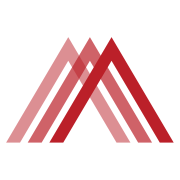
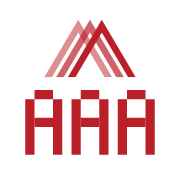
Make the browser tab and share preview read as AAA Shutter Repair. (#40)
Replace the triangle-only favicon with a 16px AAA lockup, and point Open Graph and Twitter images at the logo on white.

Changed region(s): [[0.0278, 0.1111, 0.9722, 0.8611]]

diff --git a/app/layout.tsx b/app/layout.tsx
@@ -9,6 +9,7 @@ import { businessJsonLd } from "@/lib/schema";
 import {
   GOOGLE_SITE_VERIFICATION,
   GOOGLE_SITE_VERIFICATION_INFO,
+  SHARE_IMAGE,
   SITE_NAME,
   SITE_URL,
 } from "@/lib/site";
@@ -30,6 +31,11 @@ const heading = Montserrat({
 
 export const metadata: Metadata = {
   metadataBase: new URL(SITE_URL),
+  applicationName: SITE_NAME,
+  appleWebApp: {
+    capable: false,
+    title: SITE_NAME,
+  },
   title: {
     default: `Plantation Shutter Repair in Los Angeles | ${SITE_NAME}`,
     template: `%s | ${SITE_NAME}`,
@@ -40,6 +46,11 @@ export const metadata: Metadata = {
     siteName: SITE_NAME,
     type: "website",
     locale: "en_US",
+    images: [SHARE_IMAGE],
+  },
+  twitter: {
+    card: "summary_large_image",
+    images: [SHARE_IMAGE.url],
   },
   verification: {
     google: [GOOGLE_SITE_VERIFICATION, GOOGLE_SITE_VERIFICATION_INFO],

diff --git a/components/CityPage.tsx b/components/CityPage.tsx
@@ -10,7 +10,7 @@ import { LANDING_TRUST_CHIPS, TrustChips } from "@/components/TrustChips";
 import { JsonLd } from "@/components/JsonLd";
 import type { CityContent } from "@/lib/cities";
 import { serviceJsonLd } from "@/lib/schema";
-import { absoluteUrl } from "@/lib/site";
+import { SHARE_IMAGE, absoluteUrl } from "@/lib/site";
 
 export function cityMetadata(city: CityContent): Metadata {
   return {
@@ -18,6 +18,7 @@ export function cityMetadata(city: CityContent): Metadata {
     description: city.description,
     alternates: { canonical: absoluteUrl(city.slug) },
     openGraph: {
+      images: [SHARE_IMAGE],
       title: `${city.title} | AAA Shutter Repair`,
       description: city.description,
       url: absoluteUrl(city.slug),

diff --git a/app/(site)/plantation-shutter-repair/page.tsx b/app/(site)/plantation-shutter-repair/page.tsx
@@ -9,7 +9,7 @@ import { LANDING_TRUST_CHIPS, TrustChips } from "@/components/TrustChips";
 import { TextLink } from "@/components/TextLink";
 import { JsonLd } from "@/components/JsonLd";
 import { serviceJsonLd } from "@/lib/schema";
-import { PHONE_DISPLAY, absoluteUrl } from "@/lib/site";
+import { PHONE_DISPLAY, SHARE_IMAGE, absoluteUrl } from "@/lib/site";
 
 const title = "Plantation Shutter Repair in Los Angeles";
 const description =
@@ -20,6 +20,7 @@ export const metadata: Metadata = {
   description,
   alternates: { canonical: absoluteUrl("/plantation-shutter-repair") },
   openGraph: {
+    images: [SHARE_IMAGE],
     title: `${title} | AAA Shutter Repair`,
     description,
     url: absoluteUrl("/plantation-shutter-repair"),

diff --git a/app/(site)/faq/somfy-motorized-shade-repair/page.tsx b/app/(site)/faq/somfy-motorized-shade-repair/page.tsx
@@ -6,7 +6,7 @@ import { FaqList } from "@/components/FaqList";
 import { HoursLine } from "@/components/HoursLine";
 import { JobFigure } from "@/components/JobFigure";
 import { somfyPageFaq } from "@/lib/faq";
-import { PHONE_DISPLAY, PHONE_TEL, absoluteUrl } from "@/lib/site";
+import { PHONE_DISPLAY, PHONE_TEL, SHARE_IMAGE, absoluteUrl } from "@/lib/site";
 
 const title = "Somfy motorized shade repair in Los Angeles";
 const description =
@@ -19,6 +19,7 @@ export const metadata: Metadata = {
     canonical: absoluteUrl("/faq/somfy-motorized-shade-repair"),
   },
   openGraph: {
+    images: [SHARE_IMAGE],
     title: `${title} | AAA Shutter Repair`,
     description,
     url: absoluteUrl("/faq/somfy-motorized-shade-repair"),

diff --git a/app/(site)/blind-and-shade-repair/page.tsx b/app/(site)/blind-and-shade-repair/page.tsx
@@ -8,7 +8,7 @@ import { TrustChips } from "@/components/TrustChips";
 import { JsonLd } from "@/components/JsonLd";
 import { TextLink } from "@/components/TextLink";
 import { serviceJsonLd } from "@/lib/schema";
-import { PHONE_DISPLAY, absoluteUrl } from "@/lib/site";
+import { PHONE_DISPLAY, SHARE_IMAGE, absoluteUrl } from "@/lib/site";
 
 const title = "Blind Repair Near Me | Van Nuys & Sherman Oaks";
 const description =
@@ -19,6 +19,7 @@ export const metadata: Metadata = {
   description,
   alternates: { canonical: absoluteUrl("/blind-and-shade-repair") },
   openGraph: {
+    images: [SHARE_IMAGE],
     title: `${title} | AAA Shutter Repair`,
     description,
     url: absoluteUrl("/blind-and-shade-repair"),

diff --git a/app/(site)/get-a-quote/page.tsx b/app/(site)/get-a-quote/page.tsx
@@ -7,7 +7,7 @@ import { QuoteForm } from "@/components/QuoteForm";
 import { TextLink } from "@/components/TextLink";
 import { LANDING_TRUST_CHIPS, TrustChips } from "@/components/TrustChips";
 import { quoteIntentLabel, quoteJobFromParam } from "@/lib/quote";
-import { PHONE_DISPLAY, absoluteUrl } from "@/lib/site";
+import { PHONE_DISPLAY, SHARE_IMAGE, absoluteUrl } from "@/lib/site";
 
 const title = "Get a Free Estimate";
 const description =
@@ -18,6 +18,7 @@ export const metadata: Metadata = {
   description,
   alternates: { canonical: absoluteUrl("/get-a-quote") },
   openGraph: {
+    images: [SHARE_IMAGE],
     title: `${title} | AAA Shutter Repair`,
     description,
     url: absoluteUrl("/get-a-quote"),

diff --git a/app/(site)/shutter-repair/page.tsx b/app/(site)/shutter-repair/page.tsx
@@ -10,7 +10,7 @@ import { LANDING_TRUST_CHIPS, TrustChips } from "@/components/TrustChips";
 import { TextLink } from "@/components/TextLink";
 import { JsonLd } from "@/components/JsonLd";
 import { serviceJsonLd } from "@/lib/schema";
-import { PHONE_DISPLAY, absoluteUrl } from "@/lib/site";
+import { PHONE_DISPLAY, SHARE_IMAGE, absoluteUrl } from "@/lib/site";
 
 const title = "Shutter Repair in Los Angeles";
 const description =
@@ -21,6 +21,7 @@ export const metadata: Metadata = {
   description,
   alternates: { canonical: absoluteUrl("/shutter-repair") },
   openGraph: {
+    images: [SHARE_IMAGE],
     title: `${title} | AAA Shutter Repair`,
     description,
     url: absoluteUrl("/shutter-repair"),

diff --git a/app/(site)/motorized-shade-repair/page.tsx b/app/(site)/motorized-shade-repair/page.tsx
@@ -8,7 +8,7 @@ import { JobFigure } from "@/components/JobFigure";
 import { TrustChips } from "@/components/TrustChips";
 import { JsonLd } from "@/components/JsonLd";
 import { serviceJsonLd } from "@/lib/schema";
-import { absoluteUrl } from "@/lib/site";
+import { SHARE_IMAGE, absoluteUrl } from "@/lib/site";
 
 const title = "Somfy and Motorized Shade Repair in Los Angeles";
 const description =
@@ -19,6 +19,7 @@ export const metadata: Metadata = {
   description,
   alternates: { canonical: absoluteUrl("/motorized-shade-repair") },
   openGraph: {
+    images: [SHARE_IMAGE],
     title: `${title} | AAA Shutter Repair`,
     description,
     url: absoluteUrl("/motorized-shade-repair"),

diff --git a/app/(site)/gallery/page.tsx b/app/(site)/gallery/page.tsx
@@ -3,7 +3,7 @@ import { Breadcrumbs } from "@/components/Breadcrumbs";
 import { CtaButtons } from "@/components/CtaButtons";
 import { GalleryGrid } from "@/components/GalleryGrid";
 import { GALLERY_IMAGES } from "@/lib/gallery";
-import { absoluteUrl } from "@/lib/site";
+import { SHARE_IMAGE, absoluteUrl } from "@/lib/site";
 
 const title = "Repair Gallery";
 const description =
@@ -14,6 +14,7 @@ export const metadata: Metadata = {
   description,
   alternates: { canonical: absoluteUrl("/gallery") },
   openGraph: {
+    images: [SHARE_IMAGE],
     title: `${title} | AAA Shutter Repair`,
     description,
     url: absoluteUrl("/gallery"),

diff --git a/app/(site)/reviews/page.tsx b/app/(site)/reviews/page.tsx
@@ -2,7 +2,7 @@ import type { Metadata } from "next";
 import Link from "next/link";
 import { Breadcrumbs } from "@/components/Breadcrumbs";
 import { CtaButtons } from "@/components/CtaButtons";
-import { absoluteUrl } from "@/lib/site";
+import { SHARE_IMAGE, absoluteUrl } from "@/lib/site";
 
 const title = "AAA Shutter Repair Review Themes";
 const description =
@@ -13,6 +13,7 @@ export const metadata: Metadata = {
   description,
   alternates: { canonical: absoluteUrl("/reviews") },
   openGraph: {
+    images: [SHARE_IMAGE],
     title: `${title} | AAA Shutter Repair`,
     description,
     url: absoluteUrl("/reviews"),

diff --git a/app/(site)/page.tsx b/app/(site)/page.tsx
@@ -12,6 +12,7 @@ import { HOME_JOB_STRIP } from "@/lib/gallery";
 import { serviceJsonLd } from "@/lib/schema";
 import {
   HOURS_FAQ,
+  SHARE_IMAGE,
   absoluteUrl,
   CITY_GROUPS,
   cityLinksInGroup,
@@ -27,14 +28,16 @@ export const metadata: Metadata = {
   description,
   alternates: { canonical: absoluteUrl("/") },
   openGraph: {
+    images: [SHARE_IMAGE],
     title,
     description,
     url: absoluteUrl("/"),
   },
   twitter: {
-    card: "summary",
+    card: "summary_large_image",
     title,
     description,
+    images: [SHARE_IMAGE.url],
   },
 };
 

diff --git a/lib/site.ts b/lib/site.ts
@@ -2,6 +2,14 @@ export const SITE_NAME = "AAA Shutter Repair";
 export const SITE_URL =
   process.env.NEXT_PUBLIC_SITE_URL ?? "https://www.aaashutterrepair.com";
 
+/** Logo on white for link previews. Absolute so shares do not depend on the crawler resolving a path. */
+export const SHARE_IMAGE = {
+  url: `${SITE_URL}/og-image.png`,
+  width: 1200,
+  height: 630,
+  alt: SITE_NAME,
+} as const;
+
 export const PHONE_DISPLAY = "818-392-8584";
 export const PHONE_TEL = "+18183928584";
 export const PHONE_SMS = `sms:${PHONE_TEL}`;
